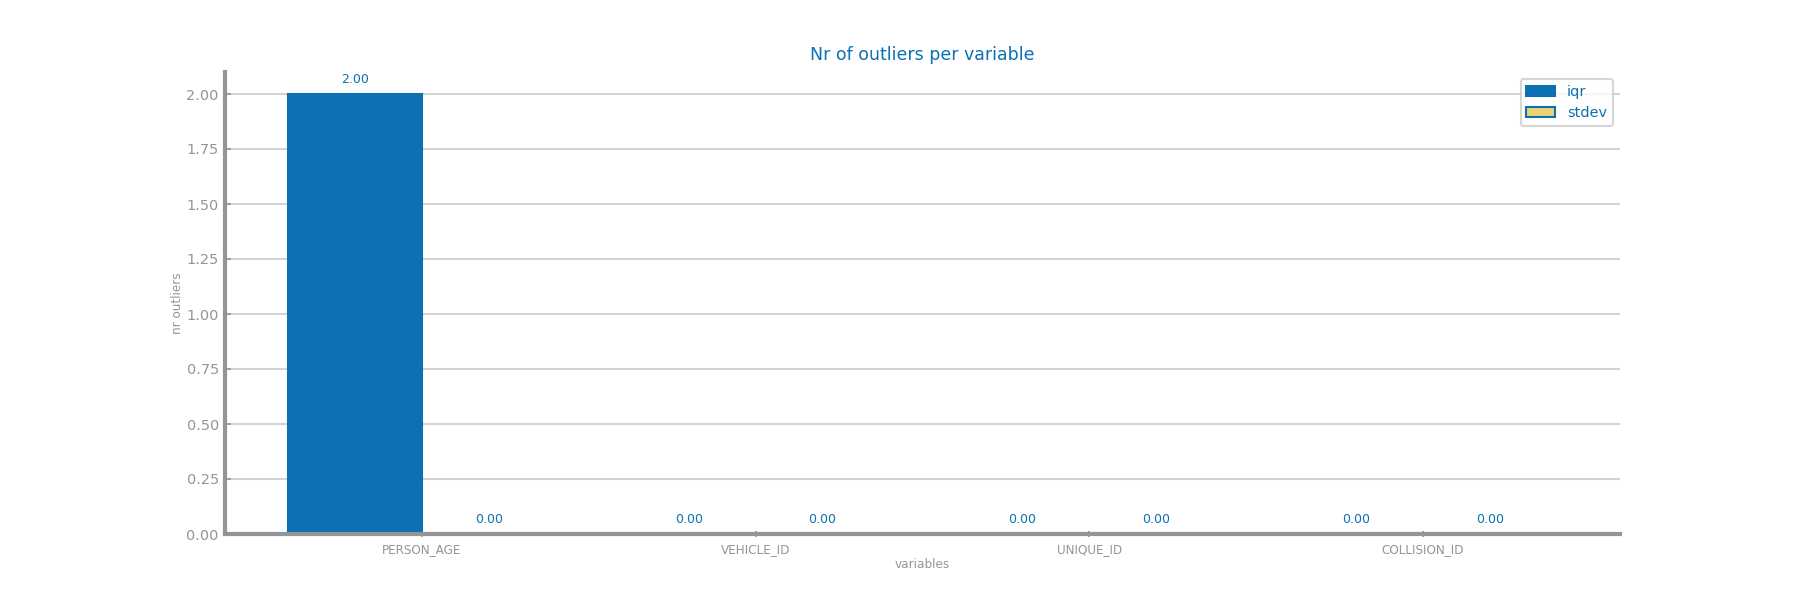
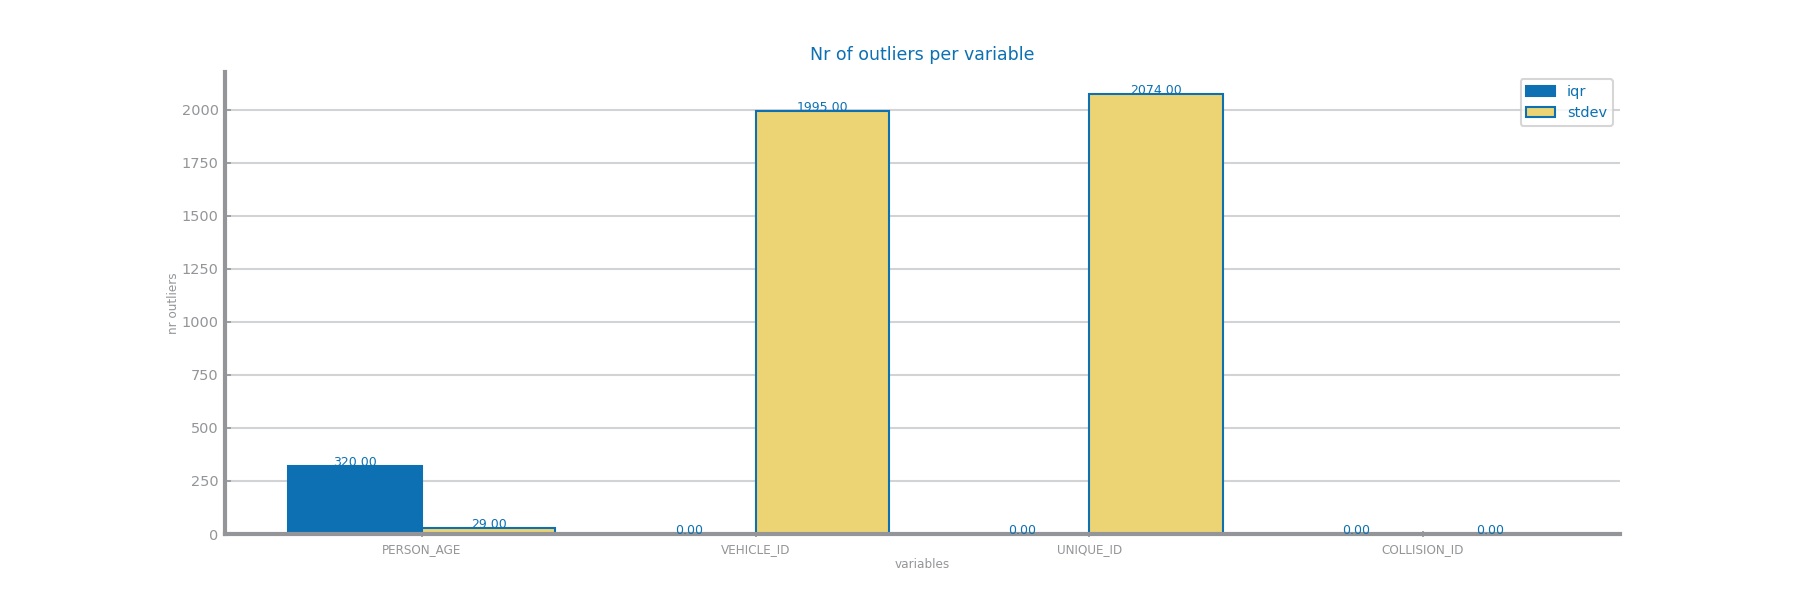
Fixed problem with outliers

diff --git a/lab01_data_profiling/set2_data_distribution.py b/lab01_data_profiling/set2_data_distribution.py
@@ -44,24 +44,23 @@ if [] == numeric_vars:
 
 outliers_iqr = []
 outliers_stdev = []
-summary_5 = data.describe(include='number')
+summary5 = data.describe(include='number')
 
 for var in numeric_vars:
-    iqr = 1.5 * (summary_5[var].quantile(q=0.75) - summary_5[var].quantile(q=0.25))
+    iqr = 1.5 * (summary5[var]['75%'] - summary5[var]['25%'])
     outliers_iqr += [
-        data[data[var] > summary_5[var].quantile(q=0.75) + iqr].count()[var] +
-        data[data[var] < summary_5[var].quantile(q=0.25) - iqr].count()[var]]
-    std = NR_STDEV * summary_5[var].std()
+        data[data[var] > summary5[var]['75%']  + iqr].count()[var] +
+        data[data[var] < summary5[var]['25%']  - iqr].count()[var]]
+    std = NR_STDEV * summary5[var]['std']
     outliers_stdev += [
-        data[data[var] > summary_5[var].mean() + std].count()[var] +
-        data[data[var] < summary_5[var].mean() - std].count()[var]]
+        data[data[var] > summary5[var]['mean'] + std].count()[var] +
+        data[data[var] < summary5[var]['mean'] - std].count()[var]]
 
 outliers = {'iqr': outliers_iqr, 'stdev': outliers_stdev}
 figure(figsize=(12, HEIGHT))
 multiple_bar_chart(numeric_vars, outliers, title='Nr of outliers per variable', xlabel='variables', ylabel='nr outliers', percentage=False)
 savefig('lab01_data_profiling/images/data_distribution_set2_outliers.png')
 show()
-
 
 #Histrograms with number of outliers
 numeric_vars = get_variable_types(data)['Numeric']

diff --git a/lab01_data_profiling/set1_data_distribution.py b/lab01_data_profiling/set1_data_distribution.py
@@ -45,17 +45,17 @@ if [] == numeric_vars:
 
 outliers_iqr = []
 outliers_stdev = []
-summary_5 = data.describe(include='number')
+summary5 = data.describe(include='number')
 
 for var in numeric_vars:
-    iqr = 1.5 * (summary_5[var].quantile(q=0.75) - summary_5[var].quantile(q=0.25))
+    iqr = 1.5 * (summary5[var]['75%'] - summary5[var]['25%'])
     outliers_iqr += [
-        data[data[var] > summary_5[var].quantile(q=0.75) + iqr].count()[var] +
-        data[data[var] < summary_5[var].quantile(q=0.25) - iqr].count()[var]]
-    std = NR_STDEV * summary_5[var].std()
+        data[data[var] > summary5[var]['75%']  + iqr].count()[var] +
+        data[data[var] < summary5[var]['25%']  - iqr].count()[var]]
+    std = NR_STDEV * summary5[var]['std']
     outliers_stdev += [
-        data[data[var] > summary_5[var].mean() + std].count()[var] +
-        data[data[var] < summary_5[var].mean() - std].count()[var]]
+        data[data[var] > summary5[var]['mean'] + std].count()[var] +
+        data[data[var] < summary5[var]['mean'] - std].count()[var]]
 
 outliers = {'iqr': outliers_iqr, 'stdev': outliers_stdev}
 figure(figsize=(12, HEIGHT))
